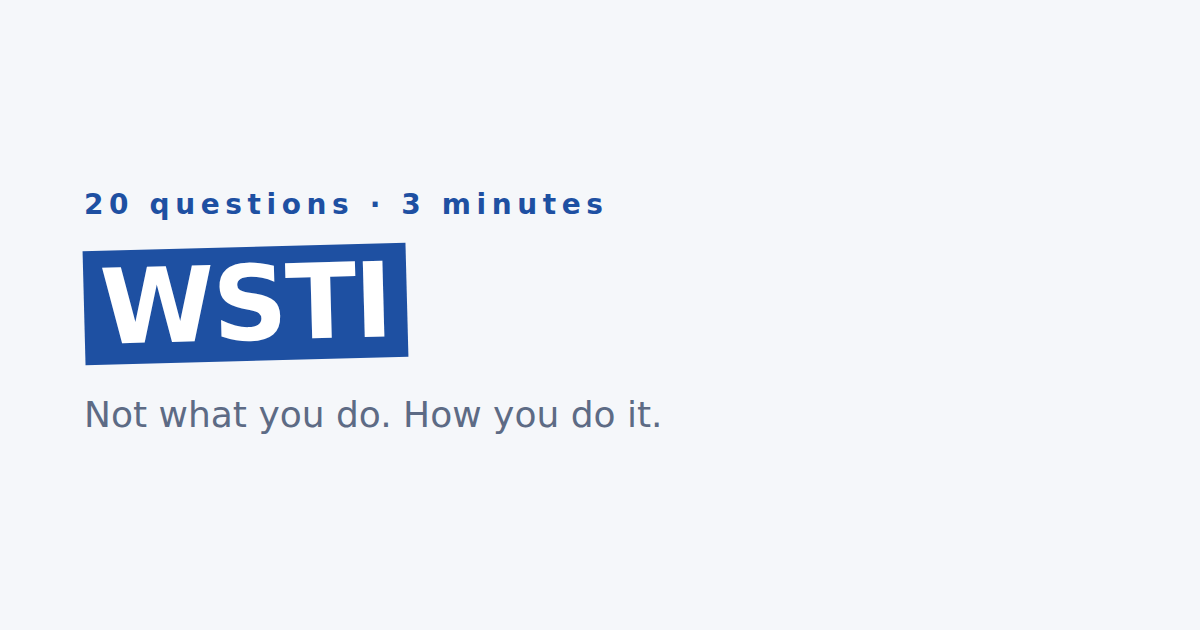
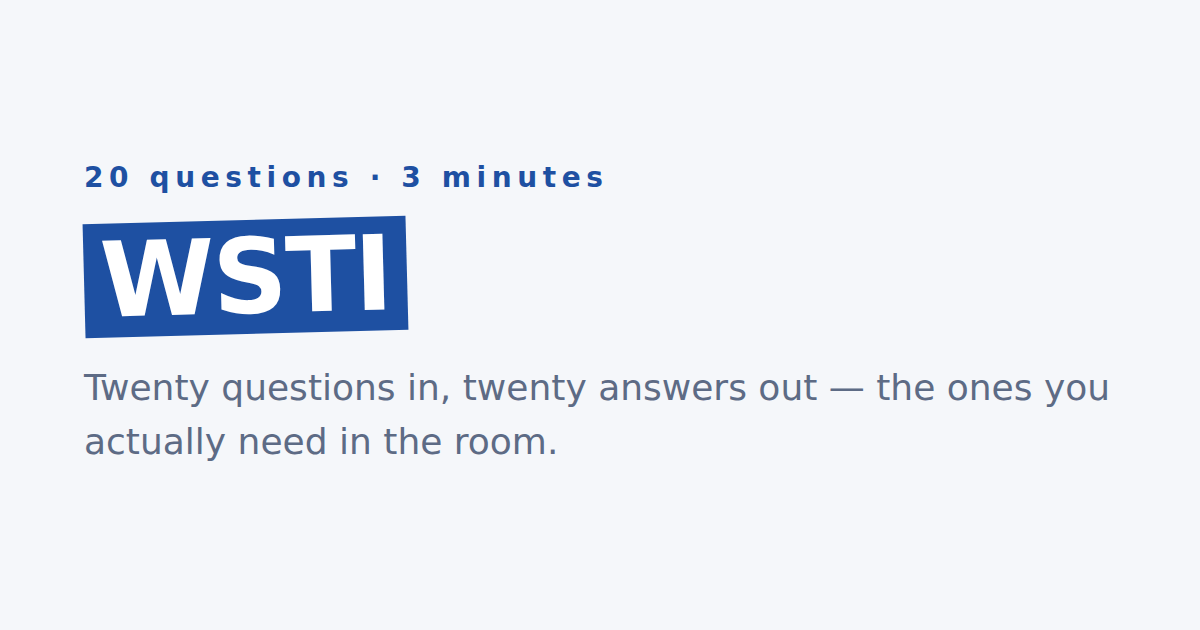
Make the landing page state what the result actually contains
The site had grown an interview-prep layer that the front door never
mentioned. A student arriving saw a work-style test and a line about how
you work, with no signal that the résumé sentence, the weakness answer,
the three-level dig and the reverse questions were on the other side of
twenty questions. The most useful thing here was the least visible thing
here, which is the wrong way round before sending anyone to it.

The tagline now promises the payoff rather than describing the concept,
the start screen lists the five things the result carries, and the page
title and meta description say the same in the words a student would
search. The English copy follows, though the material itself is written
for Japanese hiring.

Pre-launch check at 390px: no horizontal scroll on the start or result
screen, twenty questions through to a result with all eight panels, no
JS errors, and all sixteen generated result pages carrying their four
dig chains and four graded questions.

Claude-Session: https://claude.ai/code/session_01BPAcM3EDUwSt2eDhPXYB68

Changed region(s): [[0.0617, 0.2714, 0.925, 0.7238], [0.3392, 0.2714, 0.5242, 0.3619]]

diff --git a/assets/quiz-data.js b/assets/quiz-data.js
@@ -25,12 +25,12 @@ window.QUIZ_DATA = {
     brand: { ja: "働き方16タイプ診断", en: "WSTI" },
     title: { ja: "働き方16タイプ診断", en: "WSTI — Work Style Type Indicator" },
     tagline: {
-      ja: "何をやるかではなく、どう進めるか。",
-      en: "Not what you do. How you do it."
+      ja: "20問答えると、面接でそのまま使える言葉が出ます。",
+      en: "Twenty questions in, twenty answers out — the ones you actually need in the room."
     },
     description: {
-      ja: "20の質問で、仕事の進め方が16タイプのどれかに分かれます。強み・注意点・自己PRのたたき台まで出ます。",
-      en: "20 questions, 16 work styles. Get your type, your strengths, your blind spots, and a line you can put on a résumé."
+      ja: "20問・3分。自己PRのたたき台、「短所は？」への答え方、面接で深掘りされる3段階、説明会で聞くべきことまで出ます。就活生向け・無料・登録不要。",
+      en: "20 questions, 3 minutes. A line for your resume, an answer to the weakness question, the three levels they will dig to, and what to ask them back. Free, no sign-up."
     },
     hashtag: { ja: "働き方16タイプ診断", en: "WSTI" }
   },
@@ -39,6 +39,23 @@ window.QUIZ_DATA = {
     eyebrow:     { ja: "20の質問・3分", en: "20 questions · 3 minutes" },
     start:       { ja: "診断をはじめる", en: "Start the test" },
     startNote:   { ja: "結果はその場で出ます。登録も入力もありません。", en: "Instant result. No sign-up, nothing to fill in." },
+    getsTitle:   { ja: "結果で出るもの", en: "What you walk away with" },
+    gets: {
+      ja: [
+        "自己PRのたたき台（そのままESに置ける一文）",
+        "「短所は？」への答え方",
+        "面接で深掘りされる3段階と、崩れない答え方",
+        "説明会・面接で聞くこと（そのまま逆質問になります）",
+        "返ってきた答えの読み方と、合わない会社のサイン"
+      ],
+      en: [
+        "A line for your résumé you can paste as-is",
+        "An answer to “what's your weakness?”",
+        "The three levels they will dig to, and how to hold your ground",
+        "Questions to ask them — they double as your reverse questions",
+        "How to read their answer, and the signs a company won't fit"
+      ]
+    },
     back:        { ja: "戻る", en: "Back" },
     resultLabel: { ja: "あなたのタイプは", en: "Your type is" },
     share:       { ja: "結果をXでシェア", en: "Share on X" },

diff --git a/index.html b/index.html
@@ -3,12 +3,12 @@
 <head>
 <meta charset="UTF-8">
 <meta name="viewport" content="width=device-width, initial-scale=1">
-<title>WSTI — Work Style Type Indicator</title>
-<meta name="description" content="Eight questions. Sixteen work styles. Find your four-letter type and who you work best with.">
+<title>働き方16タイプ診断 — 面接でそのまま使える言葉が出ます</title>
+<meta name="description" content="20問・3分。自己PRのたたき台、「短所は？」への答え方、面接で深掘りされる3段階、説明会で聞くべきことまで出ます。就活生向け・無料・登録不要。">
 
 <meta property="og:type" content="website">
-<meta property="og:title" content="WSTI — Work Style Type Indicator">
-<meta property="og:description" content="Eight questions. Sixteen work styles. Find your four-letter type and who you work best with.">
+<meta property="og:title" content="働き方16タイプ診断">
+<meta property="og:description" content="20問・3分。自己PRのたたき台、「短所は？」への答え方、面接で深掘りされる3段階、説明会で聞くべきことまで出ます。就活生向け・無料・登録不要。">
 <meta property="og:image" content="https://koron016.github.io/HP/assets/ogp/top-en.png">
 <meta name="twitter:card" content="summary_large_image">
 
@@ -29,6 +29,11 @@
     <p class="eyebrow" data-ui="eyebrow"></p>
     <h1 class="title"><span class="title-accent" id="brand"></span></h1>
     <p class="lead" id="tagline"></p>
+    <div class="panel gets">
+      <p class="panel-label" id="label-gets"></p>
+      <ul id="gets-list" class="bullets"></ul>
+    </div>
+
     <button id="btn-start" class="btn btn-main" type="button"></button>
     <p class="note" data-ui="startNote"></p>
     <p class="note"><a class="quiet-link" id="link-team" href="team.html"></a></p>

diff --git a/result/ja/itlb.html b/result/ja/itlb.html
@@ -4,11 +4,11 @@
 <meta charset="UTF-8">
 <meta name="viewport" content="width=device-width, initial-scale=1">
 <title>ITLB — 駆け込みムードメーカー | 働き方16タイプ診断</title>
-<meta name="description" content="遅れているのに、なぜか場が明るい · 20の質問で、仕事の進め方が16タイプのどれかに分かれます。強み・注意点・自己PRのたたき台まで出ます。">
+<meta name="description" content="遅れているのに、なぜか場が明るい · 20問・3分。自己PRのたたき台、「短所は？」への答え方、面接で深掘りされる3段階、説明会で聞くべきことまで出ます。就活生向け・無料・登録不要。">
 
 <meta property="og:type" content="article">
 <meta property="og:title" content="ITLB — 駆け込みムードメーカー | 働き方16タイプ診断">
-<meta property="og:description" content="遅れているのに、なぜか場が明るい · 20の質問で、仕事の進め方が16タイプのどれかに分かれます。強み・注意点・自己PRのたたき台まで出ます。">
+<meta property="og:description" content="遅れているのに、なぜか場が明るい · 20問・3分。自己PRのたたき台、「短所は？」への答え方、面接で深掘りされる3段階、説明会で聞くべきことまで出ます。就活生向け・無料・登録不要。">
 <meta property="og:image" content="https://koron016.github.io/HP/assets/ogp/itlb-ja.png">
 <meta property="og:url" content="https://koron016.github.io/HP/result/ja/itlb.html">
 <meta name="twitter:card" content="summary_large_image">

diff --git a/result/ja/dseb.html b/result/ja/dseb.html
@@ -4,11 +4,11 @@
 <meta charset="UTF-8">
 <meta name="viewport" content="width=device-width, initial-scale=1">
 <title>DSEB — 縁の下の設計者 | 働き方16タイプ診断</title>
-<meta name="description" content="誰も見ていないところを、整えている · 20の質問で、仕事の進め方が16タイプのどれかに分かれます。強み・注意点・自己PRのたたき台まで出ます。">
+<meta name="description" content="誰も見ていないところを、整えている · 20問・3分。自己PRのたたき台、「短所は？」への答え方、面接で深掘りされる3段階、説明会で聞くべきことまで出ます。就活生向け・無料・登録不要。">
 
 <meta property="og:type" content="article">
 <meta property="og:title" content="DSEB — 縁の下の設計者 | 働き方16タイプ診断">
-<meta property="og:description" content="誰も見ていないところを、整えている · 20の質問で、仕事の進め方が16タイプのどれかに分かれます。強み・注意点・自己PRのたたき台まで出ます。">
+<meta property="og:description" content="誰も見ていないところを、整えている · 20問・3分。自己PRのたたき台、「短所は？」への答え方、面接で深掘りされる3段階、説明会で聞くべきことまで出ます。就活生向け・無料・登録不要。">
 <meta property="og:image" content="https://koron016.github.io/HP/assets/ogp/dseb-ja.png">
 <meta property="og:url" content="https://koron016.github.io/HP/result/ja/dseb.html">
 <meta name="twitter:card" content="summary_large_image">

diff --git a/result/ja/dtlb.html b/result/ja/dtlb.html
@@ -4,11 +4,11 @@
 <meta charset="UTF-8">
 <meta name="viewport" content="width=device-width, initial-scale=1">
 <title>DTLB — 土壇場の調整役 | 働き方16タイプ診断</title>
-<meta name="description" content="最後に、全部のつじつまを合わせる · 20の質問で、仕事の進め方が16タイプのどれかに分かれます。強み・注意点・自己PRのたたき台まで出ます。">
+<meta name="description" content="最後に、全部のつじつまを合わせる · 20問・3分。自己PRのたたき台、「短所は？」への答え方、面接で深掘りされる3段階、説明会で聞くべきことまで出ます。就活生向け・無料・登録不要。">
 
 <meta property="og:type" content="article">
 <meta property="og:title" content="DTLB — 土壇場の調整役 | 働き方16タイプ診断">
-<meta property="og:description" content="最後に、全部のつじつまを合わせる · 20の質問で、仕事の進め方が16タイプのどれかに分かれます。強み・注意点・自己PRのたたき台まで出ます。">
+<meta property="og:description" content="最後に、全部のつじつまを合わせる · 20問・3分。自己PRのたたき台、「短所は？」への答え方、面接で深掘りされる3段階、説明会で聞くべきことまで出ます。就活生向け・無料・登録不要。">
 <meta property="og:image" content="https://koron016.github.io/HP/assets/ogp/dtlb-ja.png">
 <meta property="og:url" content="https://koron016.github.io/HP/result/ja/dtlb.html">
 <meta name="twitter:card" content="summary_large_image">

diff --git a/result/ja/islc.html b/result/ja/islc.html
@@ -4,11 +4,11 @@
 <meta charset="UTF-8">
 <meta name="viewport" content="width=device-width, initial-scale=1">
 <title>ISLC — 火事場の司令塔 | 働き方16タイプ診断</title>
-<meta name="description" content="追い込まれてから、いちばん冴える · 20の質問で、仕事の進め方が16タイプのどれかに分かれます。強み・注意点・自己PRのたたき台まで出ます。">
+<meta name="description" content="追い込まれてから、いちばん冴える · 20問・3分。自己PRのたたき台、「短所は？」への答え方、面接で深掘りされる3段階、説明会で聞くべきことまで出ます。就活生向け・無料・登録不要。">
 
 <meta property="og:type" content="article">
 <meta property="og:title" content="ISLC — 火事場の司令塔 | 働き方16タイプ診断">
-<meta property="og:description" content="追い込まれてから、いちばん冴える · 20の質問で、仕事の進め方が16タイプのどれかに分かれます。強み・注意点・自己PRのたたき台まで出ます。">
+<meta property="og:description" content="追い込まれてから、いちばん冴える · 20問・3分。自己PRのたたき台、「短所は？」への答え方、面接で深掘りされる3段階、説明会で聞くべきことまで出ます。就活生向け・無料・登録不要。">
 <meta property="og:image" content="https://koron016.github.io/HP/assets/ogp/islc-ja.png">
 <meta property="og:url" content="https://koron016.github.io/HP/result/ja/islc.html">
 <meta name="twitter:card" content="summary_large_image">

diff --git a/result/ja/islb.html b/result/ja/islb.html
@@ -4,11 +4,11 @@
 <meta charset="UTF-8">
 <meta name="viewport" content="width=device-width, initial-scale=1">
 <title>ISLB — 締切前の職人 | 働き方16タイプ診断</title>
-<meta name="description" content="ぎりぎりでも、質だけは落とさない · 20の質問で、仕事の進め方が16タイプのどれかに分かれます。強み・注意点・自己PRのたたき台まで出ます。">
+<meta name="description" content="ぎりぎりでも、質だけは落とさない · 20問・3分。自己PRのたたき台、「短所は？」への答え方、面接で深掘りされる3段階、説明会で聞くべきことまで出ます。就活生向け・無料・登録不要。">
 
 <meta property="og:type" content="article">
 <meta property="og:title" content="ISLB — 締切前の職人 | 働き方16タイプ診断">
-<meta property="og:description" content="ぎりぎりでも、質だけは落とさない · 20の質問で、仕事の進め方が16タイプのどれかに分かれます。強み・注意点・自己PRのたたき台まで出ます。">
+<meta property="og:description" content="ぎりぎりでも、質だけは落とさない · 20問・3分。自己PRのたたき台、「短所は？」への答え方、面接で深掘りされる3段階、説明会で聞くべきことまで出ます。就活生向け・無料・登録不要。">
 <meta property="og:image" content="https://koron016.github.io/HP/assets/ogp/islb-ja.png">
 <meta property="og:url" content="https://koron016.github.io/HP/result/ja/islb.html">
 <meta name="twitter:card" content="summary_large_image">

diff --git a/result/ja/dteb.html b/result/ja/dteb.html
@@ -4,11 +4,11 @@
 <meta charset="UTF-8">
 <meta name="viewport" content="width=device-width, initial-scale=1">
 <title>DTEB — 整える参謀 | 働き方16タイプ診断</title>
-<meta name="description" content="決めるのは他の人。整えるのは自分 · 20の質問で、仕事の進め方が16タイプのどれかに分かれます。強み・注意点・自己PRのたたき台まで出ます。">
+<meta name="description" content="決めるのは他の人。整えるのは自分 · 20問・3分。自己PRのたたき台、「短所は？」への答え方、面接で深掘りされる3段階、説明会で聞くべきことまで出ます。就活生向け・無料・登録不要。">
 
 <meta property="og:type" content="article">
 <meta property="og:title" content="DTEB — 整える参謀 | 働き方16タイプ診断">
-<meta property="og:description" content="決めるのは他の人。整えるのは自分 · 20の質問で、仕事の進め方が16タイプのどれかに分かれます。強み・注意点・自己PRのたたき台まで出ます。">
+<meta property="og:description" content="決めるのは他の人。整えるのは自分 · 20問・3分。自己PRのたたき台、「短所は？」への答え方、面接で深掘りされる3段階、説明会で聞くべきことまで出ます。就活生向け・無料・登録不要。">
 <meta property="og:image" content="https://koron016.github.io/HP/assets/ogp/dteb-ja.png">
 <meta property="og:url" content="https://koron016.github.io/HP/result/ja/dteb.html">
 <meta name="twitter:card" content="summary_large_image">

diff --git a/result/ja/iseb.html b/result/ja/iseb.html
@@ -4,11 +4,11 @@
 <meta charset="UTF-8">
 <meta name="viewport" content="width=device-width, initial-scale=1">
 <title>ISEB — 静かな先回り屋 | 働き方16タイプ診断</title>
-<meta name="description" content="頼まれる前に、もう終わっている · 20の質問で、仕事の進め方が16タイプのどれかに分かれます。強み・注意点・自己PRのたたき台まで出ます。">
+<meta name="description" content="頼まれる前に、もう終わっている · 20問・3分。自己PRのたたき台、「短所は？」への答え方、面接で深掘りされる3段階、説明会で聞くべきことまで出ます。就活生向け・無料・登録不要。">
 
 <meta property="og:type" content="article">
 <meta property="og:title" content="ISEB — 静かな先回り屋 | 働き方16タイプ診断">
-<meta property="og:description" content="頼まれる前に、もう終わっている · 20の質問で、仕事の進め方が16タイプのどれかに分かれます。強み・注意点・自己PRのたたき台まで出ます。">
+<meta property="og:description" content="頼まれる前に、もう終わっている · 20問・3分。自己PRのたたき台、「短所は？」への答え方、面接で深掘りされる3段階、説明会で聞くべきことまで出ます。就活生向け・無料・登録不要。">
 <meta property="og:image" content="https://koron016.github.io/HP/assets/ogp/iseb-ja.png">
 <meta property="og:url" content="https://koron016.github.io/HP/result/ja/iseb.html">
 <meta name="twitter:card" content="summary_large_image">

diff --git a/result/ja/iteb.html b/result/ja/iteb.html
@@ -4,11 +4,11 @@
 <meta charset="UTF-8">
 <meta name="viewport" content="width=device-width, initial-scale=1">
 <title>ITEB — 世話焼き幹事 | 働き方16タイプ診断</title>
-<meta name="description" content="全体が見えていて、先に手を打つ · 20の質問で、仕事の進め方が16タイプのどれかに分かれます。強み・注意点・自己PRのたたき台まで出ます。">
+<meta name="description" content="全体が見えていて、先に手を打つ · 20問・3分。自己PRのたたき台、「短所は？」への答え方、面接で深掘りされる3段階、説明会で聞くべきことまで出ます。就活生向け・無料・登録不要。">
 
 <meta property="og:type" content="article">
 <meta property="og:title" content="ITEB — 世話焼き幹事 | 働き方16タイプ診断">
-<meta property="og:description" content="全体が見えていて、先に手を打つ · 20の質問で、仕事の進め方が16タイプのどれかに分かれます。強み・注意点・自己PRのたたき台まで出ます。">
+<meta property="og:description" content="全体が見えていて、先に手を打つ · 20問・3分。自己PRのたたき台、「短所は？」への答え方、面接で深掘りされる3段階、説明会で聞くべきことまで出ます。就活生向け・無料・登録不要。">
 <meta property="og:image" content="https://koron016.github.io/HP/assets/ogp/iteb-ja.png">
 <meta property="og:url" content="https://koron016.github.io/HP/result/ja/iteb.html">
 <meta name="twitter:card" content="summary_large_image">

diff --git a/result/ja/dtec.html b/result/ja/dtec.html
@@ -4,11 +4,11 @@
 <meta charset="UTF-8">
 <meta name="viewport" content="width=device-width, initial-scale=1">
 <title>DTEC — 段取りの司令塔 | 働き方16タイプ診断</title>
-<meta name="description" content="始まる前に、勝負を決めている · 20の質問で、仕事の進め方が16タイプのどれかに分かれます。強み・注意点・自己PRのたたき台まで出ます。">
+<meta name="description" content="始まる前に、勝負を決めている · 20問・3分。自己PRのたたき台、「短所は？」への答え方、面接で深掘りされる3段階、説明会で聞くべきことまで出ます。就活生向け・無料・登録不要。">
 
 <meta property="og:type" content="article">
 <meta property="og:title" content="DTEC — 段取りの司令塔 | 働き方16タイプ診断">
-<meta property="og:description" content="始まる前に、勝負を決めている · 20の質問で、仕事の進め方が16タイプのどれかに分かれます。強み・注意点・自己PRのたたき台まで出ます。">
+<meta property="og:description" content="始まる前に、勝負を決めている · 20問・3分。自己PRのたたき台、「短所は？」への答え方、面接で深掘りされる3段階、説明会で聞くべきことまで出ます。就活生向け・無料・登録不要。">
 <meta property="og:image" content="https://koron016.github.io/HP/assets/ogp/dtec-ja.png">
 <meta property="og:url" content="https://koron016.github.io/HP/result/ja/dtec.html">
 <meta name="twitter:card" content="summary_large_image">

diff --git a/result/ja/isec.html b/result/ja/isec.html
@@ -4,11 +4,11 @@
 <meta charset="UTF-8">
 <meta name="viewport" content="width=device-width, initial-scale=1">
 <title>ISEC — 独走型リーダー | 働き方16タイプ診断</title>
-<meta name="description" content="気づけば、もう走り出している · 20の質問で、仕事の進め方が16タイプのどれかに分かれます。強み・注意点・自己PRのたたき台まで出ます。">
+<meta name="description" content="気づけば、もう走り出している · 20問・3分。自己PRのたたき台、「短所は？」への答え方、面接で深掘りされる3段階、説明会で聞くべきことまで出ます。就活生向け・無料・登録不要。">
 
 <meta property="og:type" content="article">
 <meta property="og:title" content="ISEC — 独走型リーダー | 働き方16タイプ診断">
-<meta property="og:description" content="気づけば、もう走り出している · 20の質問で、仕事の進め方が16タイプのどれかに分かれます。強み・注意点・自己PRのたたき台まで出ます。">
+<meta property="og:description" content="気づけば、もう走り出している · 20問・3分。自己PRのたたき台、「短所は？」への答え方、面接で深掘りされる3段階、説明会で聞くべきことまで出ます。就活生向け・無料・登録不要。">
 <meta property="og:image" content="https://koron016.github.io/HP/assets/ogp/isec-ja.png">
 <meta property="og:url" content="https://koron016.github.io/HP/result/ja/isec.html">
 <meta name="twitter:card" content="summary_large_image">
